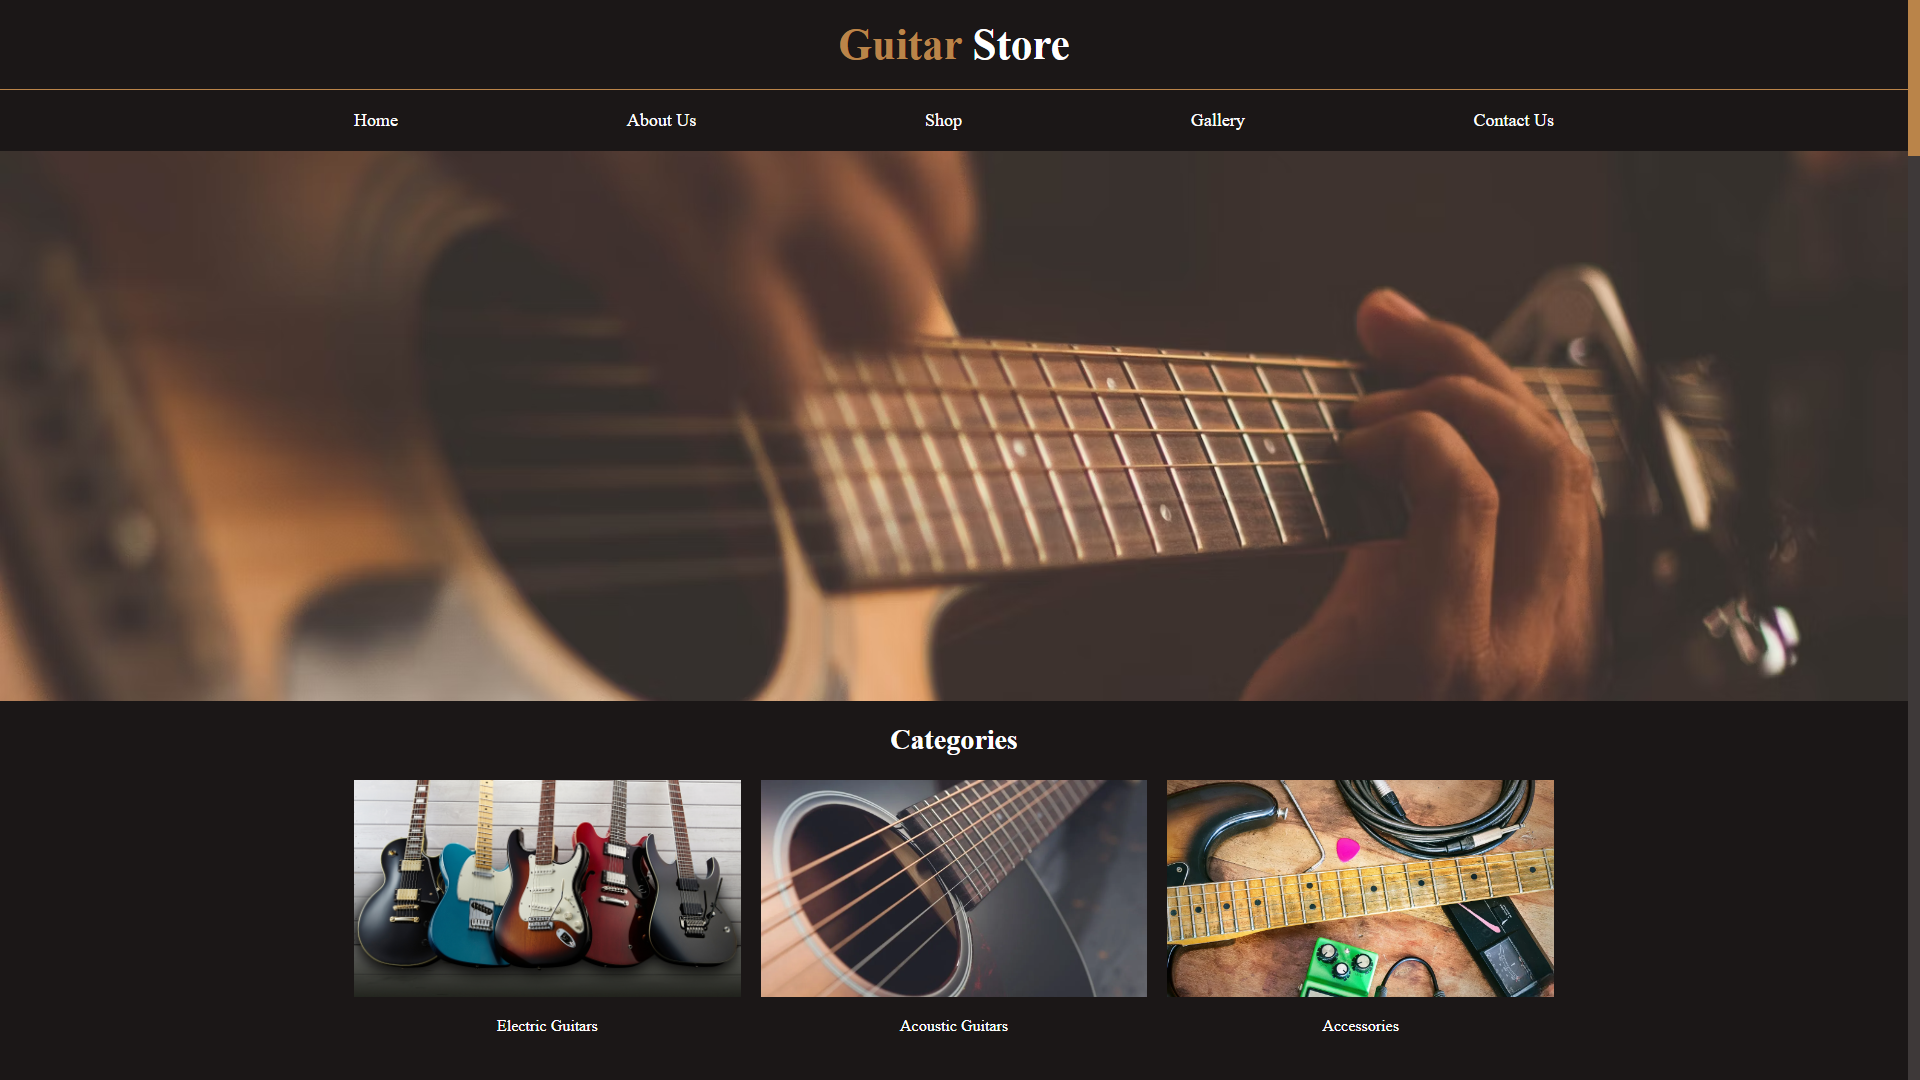
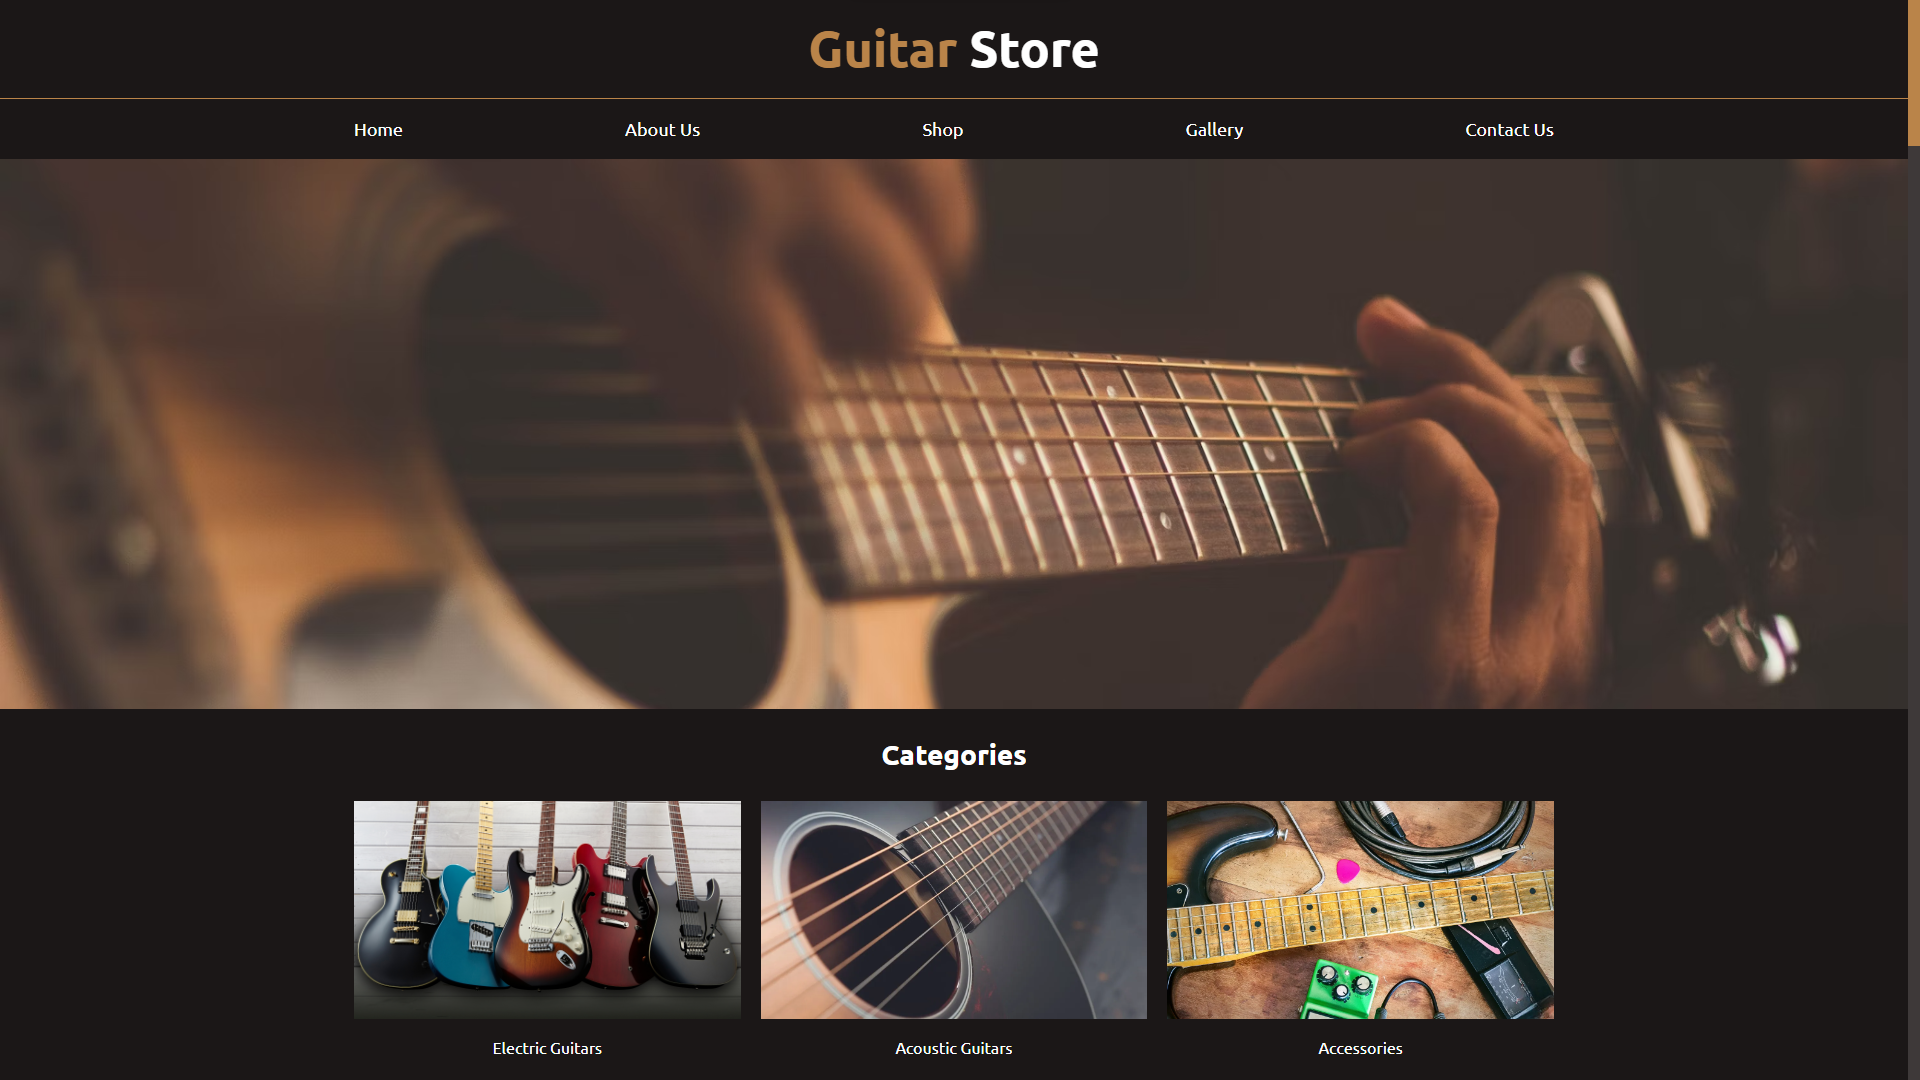
Seccion About Us finalizada

diff --git a/01E-commerce/index.html b/01E-commerce/index.html
@@ -6,6 +6,12 @@
     <title>Guitar Store | E-commerce</title>
     <link rel="icon" href="./img/icon.png" />
     <link rel="stylesheet" href="./css/normalize.css" />
+    <link rel="preconnect" href="https://fonts.googleapis.com" />
+    <link rel="preconnect" href="https://fonts.gstatic.com" crossorigin />
+    <link
+      href="https://fonts.googleapis.com/css2?family=Ubuntu:wght@300;400;700&display=swap"
+      rel="stylesheet"
+    />
     <link rel="stylesheet" href="./css/styles.css" />
   </head>
   <body>
@@ -53,25 +59,31 @@
       </div>
     </section>
 
-    <section>
-      <div>
-        <h2>About Us</h2>
-        <p>
-          Lorem ipsum dolor sit amet consectetur adipisicing elit. Facere
-          dignissimos obcaecati illum nulla commodi dolore temporibus architecto
-          dolorum, sunt laborum mollitia tempora qui nisi. Voluptatum molestiae
-          dolorum commodi nobis accusantium!
-        </p>
+    <section class="about-us">
+      <div class="container about-grid">
+        <div class="about-text">
+          <h2>About Us</h2>
+          <p>
+            Lorem ipsum dolor sit amet consectetur adipisicing elit. Facere
+            dignissimos obcaecati illum nulla commodi dolore temporibus
+            architecto dolorum, sunt laborum mollitia tempora qui nisi.
+            Voluptatum molestiae dolorum commodi nobis accusantium!
+          </p>
+          <p>
+            Lorem ipsum dolor sit amet consectetur adipisicing elit. Facere
+            dignissimos obcaecati illum nulla commodi dolore temporibus
+            architecto dolorum, sunt laborum mollitia tempora qui nisi.
+            Voluptatum molestiae dolorum commodi nobis accusantium!
+          </p>
+        </div>
       </div>
     </section>
 
     <main>
       <h2>Our Products</h2>
 
-      <!-- List of products -->
-
       <div>
-        <div>
+        <article>
           <img src="img/product0.jpg" alt="product 0" />
 
           <div>
@@ -84,12 +96,12 @@
             <p><strong>Price:</strong> $100</p>
             <a href="#" class="add-to-cart">Add to Cart</a>
           </div>
-        </div>
+        </article>
 
         <div>
           <img src="img/product1.webp" alt="product 1" />
 
-          <div>
+          <article>
             <h3>Product 1</h3>
             <p>
               Donec dapibus risus non efficitur facilisis. Etiam ac vulputate
@@ -98,13 +110,13 @@
             </p>
             <p><strong>Price:</strong> $100</p>
             <a href="#" class="add-to-cart">Add to Cart</a>
-          </div>
+          </article>
         </div>
 
         <div>
           <img src="img/product2.webp" alt="product 2" />
 
-          <div>
+          <article>
             <h3>Product 2</h3>
             <p>
               Donec dapibus risus non efficitur facilisis. Etiam ac vulputate
@@ -113,13 +125,13 @@
             </p>
             <p><strong>Price:</strong> $100</p>
             <a href="#" class="add-to-cart">Add to Cart</a>
-          </div>
+          </article>
         </div>
 
         <div>
           <img src="img/product3.webp" alt="product 3" />
 
-          <div>
+          <article>
             <h3>Product 3</h3>
             <p>
               Donec dapibus risus non efficitur facilisis. Etiam ac vulputate
@@ -128,13 +140,13 @@
             </p>
             <p><strong>Price:</strong> $100</p>
             <a href="#" class="add-to-cart">Add to Cart</a>
-          </div>
+          </article>
         </div>
 
         <div>
           <img src="img/product4.webp" alt="product 4" />
 
-          <div>
+          <article>
             <h3>Product 4</h3>
             <p>
               Donec dapibus risus non efficitur facilisis. Etiam ac vulputate
@@ -143,13 +155,13 @@
             </p>
             <p><strong>Price:</strong> $100</p>
             <a href="#" class="add-to-cart">Add to Cart</a>
-          </div>
+          </article>
         </div>
 
         <div>
           <img src="img/product5.webp" alt="product 5" />
 
-          <div>
+          <article>
             <h3>Product 5</h3>
             <p>
               Donec dapibus risus non efficitur facilisis. Etiam ac vulputate
@@ -158,13 +170,13 @@
             </p>
             <p><strong>Price:</strong> $100</p>
             <a href="#" class="add-to-cart">Add to Cart</a>
-          </div>
+          </article>
         </div>
 
         <div>
           <img src="img/product6.webp" alt="product 6" />
 
-          <div>
+          <article>
             <h3>Product 6</h3>
             <p>
               Donec dapibus risus non efficitur facilisis. Etiam ac vulputate
@@ -173,7 +185,7 @@
             </p>
             <p><strong>Price:</strong> $100</p>
             <a href="#" class="add-to-cart">Add to Cart</a>
-          </div>
+          </article>
         </div>
       </div>
     </main>

diff --git a/01E-commerce/css/styles.css b/01E-commerce/css/styles.css
@@ -3,12 +3,14 @@
   --black: #1b1717;
   --gray: #3e3939;
   --white: #ffffff;
+  --global-font: "Ubuntu", sans-serif;
 }
 
 html {
   box-sizing: border-box;
   font-size: 62.5%;
 }
+
 *,
 *:before,
 *:after {
@@ -34,6 +36,8 @@ body::-webkit-scrollbar-thumb {
 body {
   background-color: var(--black);
   color: var(--white);
+  font-size: 1.6rem;
+  font-family: var(--global-font);
 }
 
 a {
@@ -58,7 +62,7 @@ ul {
 }
 
 h1 {
-  font-size: 3.8rem;
+  font-size: 5rem;
 }
 
 h2 {
@@ -79,7 +83,7 @@ h3 {
   text-align: center;
 }
 
-img{
+img {
   max-width: 100%;
   display: block; /* para que no se muestre con un espacio abajo */
 }
@@ -89,7 +93,6 @@ img{
 .title {
   color: var(--white);
   text-align: center;
-  font-size: 4.3rem;
   margin: 2rem 0;
 }
 
@@ -129,7 +132,11 @@ img{
   gap: 2rem;
 }
 
-.category a{
+.categories h2 {
+  margin: 4rem 0;
+}
+
+.category a {
   display: block;
   text-align: center;
   padding: 2rem;
@@ -138,18 +145,46 @@ img{
   transition: background-color 0.3s ease-in-out;
 }
 
-.category:hover a{
+.category:hover a {
   background-color: var(--brown);
 }
 
-.img img{
+.img img {
   transition: transform 0.3s ease-in-out;
 }
 
-.category:hover img{
+.category:hover img {
   transform: scale(1.1);
 }
 
-.img{
+.img {
   overflow: hidden;
+}
+
+/* About Us */
+
+.about-us {
+  background-image: linear-gradient(to right, transparent 50%, var(--brown) 50%),
+    url(../img/product1.webp);
+  padding: 8rem 0;
+  background-repeat: no-repeat;
+  background-size: 100%, 120rem;
+  background-position: left center;
+  margin-top: 5rem;
+}
+
+.about-grid {
+  display: grid;
+  grid-template-columns: repeat(2, 1fr);
+  column-gap: 5rem;
+  text-align: center;
+}
+
+.about-text {
+  grid-column: 2 / 3;
+}
+
+.about-text h2,
+.about-text p:last-of-type {
+  margin: 0;
 }
